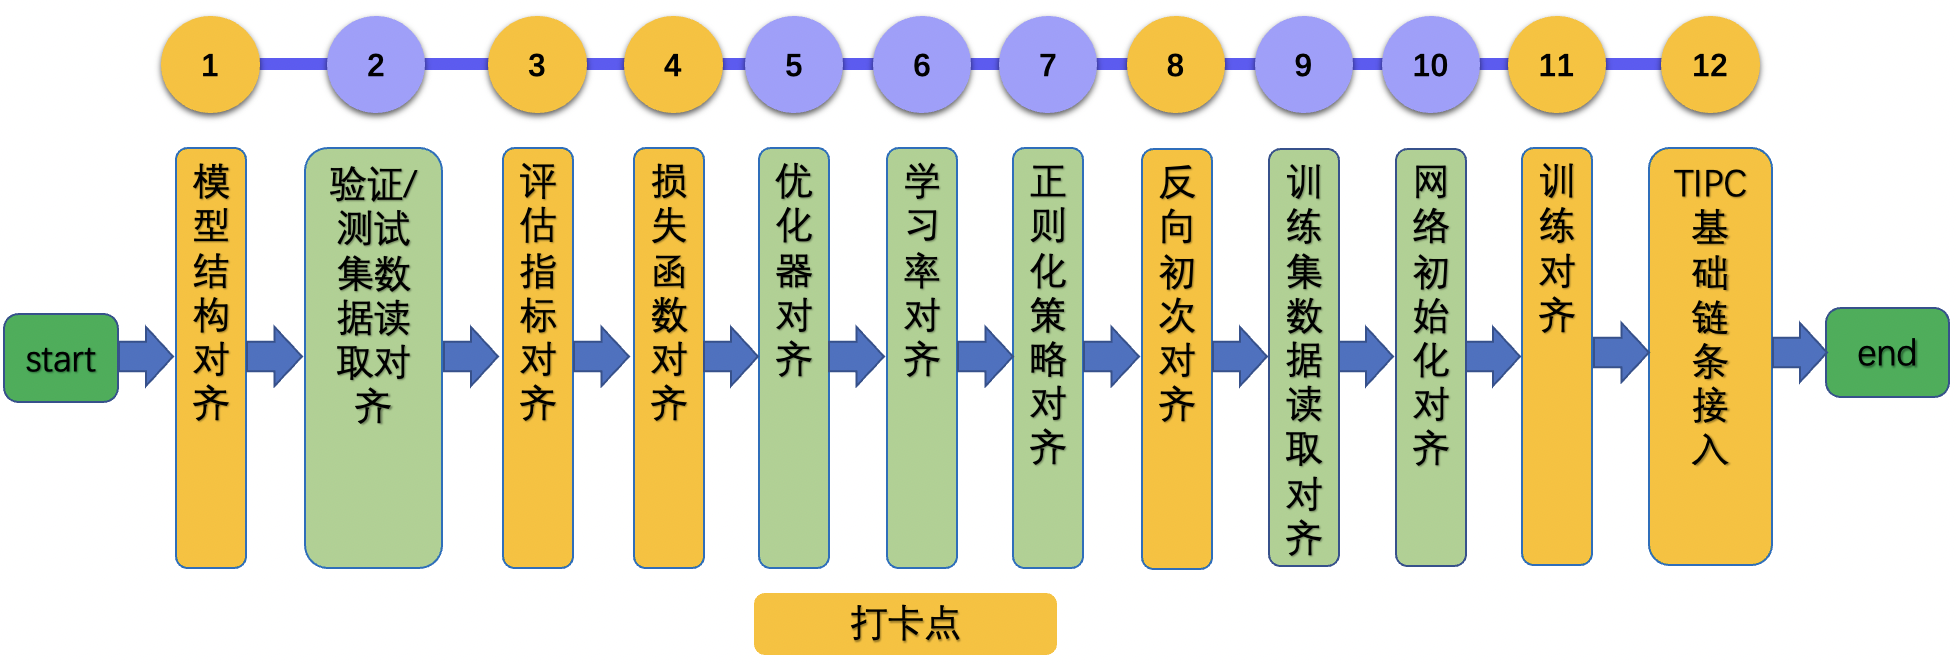
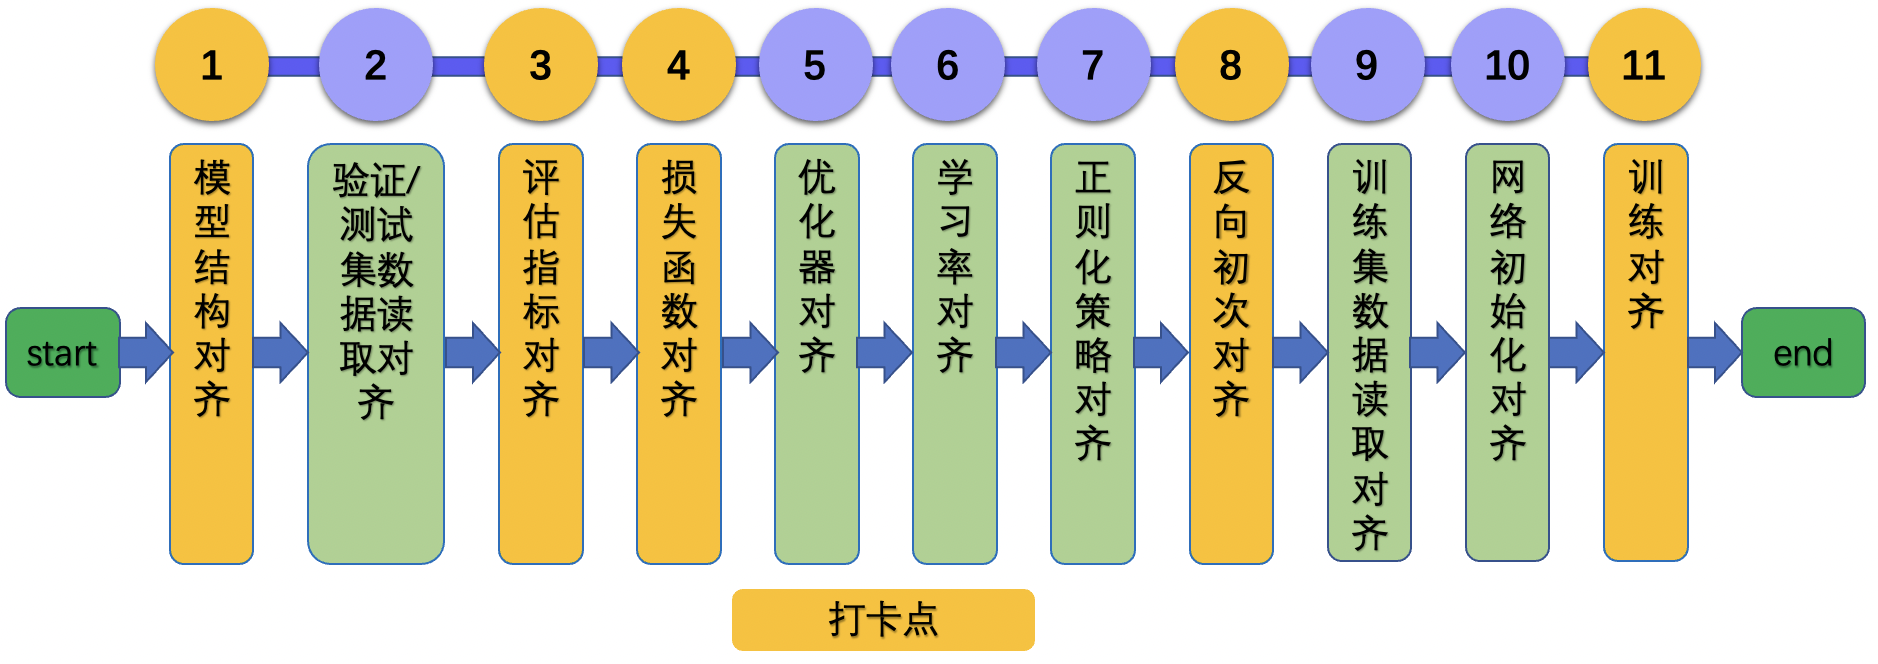
add tipc explain

diff --git a/docs/lwfx/ArticleReproduction_CV.md b/docs/lwfx/ArticleReproduction_CV.md
@@ -1,10 +1,10 @@
-# 论文复现赛指南-CV方向
+# 论文复现指南-CV方向
 
-> 本文为针对 `CV` 方向的复现赛指南
+> 本文为针对 `CV` 方向的复现指南
 >
-> 如果希望查阅 `NLP` 方向的复现赛指南，可以参考：[NLP方向论文复现赛指南](./ArticleReproduction_NLP.md)
+> 如果希望查阅 `NLP` 方向的复现指南，可以参考：[NLP方向论文复现指南](./ArticleReproduction_NLP.md)
 >
-> 如果希望查阅 `推荐` 方向的复现赛指南，可以参考：[推荐方向论文复现赛指南](./ArticleReproduction_REC.md)
+> 如果希望查阅 `推荐` 方向的复现指南，可以参考：[推荐方向论文复现指南](./ArticleReproduction_REC.md)
 
 ## 目录
 
@@ -28,7 +28,6 @@
     - [3.10 网络初始化对齐](#3.10)
     - [3.11 模型训练对齐](#3.11)
     - [3.12 单机多卡训练](#3.12)
-    - [3.13 TIPC基础链条测试接入](#3.13)
 - [4. 论文复现注意事项与FAQ](#4)
     - [4.1 通用注意事项](#4.0)
     - [4.2 模型结构对齐](#4.1)
@@ -42,8 +41,7 @@
     - [4.10 训练集数据读取对齐](#4.9)
     - [4.11 网络初始化对齐](#4.10)
     - [4.12 模型训练对齐](#4.11)
-    - [4.13 TIPC基础链条测试接入](#4.13)
-    - [4.14 常见bug汇总](#4.14)
+    - [4.13 常见bug汇总](#4.13)
 
 <a name="1"></a>
 ## 1. 总览
@@ -70,7 +68,6 @@
 * 在特定设备(CPU/GPU)上，跑通参考代码的预测过程(前向)以及至少2轮(iteration)迭代过程，保证后续基于PaddlePaddle复现论文过程中可对比。
 * 本文档基于 `AlexNet-Prod` 代码以及`reprod_log` whl包进行说明与测试。如果希望体验，建议参考[AlexNet-Reprod文档](https://github.com/littletomatodonkey/AlexNet-Prod/blob/master/README.md)进行安装与测试。
 * 在复现的过程中，只需要将PaddlePaddle的复现代码以及打卡日志上传至github，不能在其中添加`参考代码的实现`，在验收通过之后，需要删除打卡日志。建议在初期复现的时候，就将**复现代码与参考代码分成2个文件夹进行管理**。
-* 飞桨训推一体认证 (Training and Inference Pipeline Certification, TIPC) 是一个针对飞桨模型的测试工具，方便用户查阅每种模型的训练推理部署打通情况，并可以进行一键测试。论文训练对齐之后，需要为代码接入TIPC基础链条测试文档与代码，关于TIPC基础链条测试接入规范的文档可以参考：[链接](https://github.com/PaddlePaddle/models/blob/tipc/docs/tipc_test/development_specification_docs/train_infer_python.md)。更多内容在`3.13`章节部分也会详细说明。
 
 
 <a name="2"></a>
@@ -85,9 +82,9 @@
 <img src="images/framework_reprodcv.png"  width = "800" />
 </div>
 
-总共包含12个步骤。为了高效复现论文，设置了6个验收节点。如上图中黄色框所示。后续章节会详细介绍上述步骤和验收节点，具体内容安排如下：
+总共包含11个步骤。为了高效复现论文，设置了5个验收节点。如上图中黄色框所示。后续章节会详细介绍上述步骤和验收节点，具体内容安排如下：
 
-* 第3章：介绍12个复现步骤的理论知识、实战以及验收流程。
+* 第3章：介绍11个复现步骤的理论知识、实战以及验收流程。
 * 第4章：针对复现流程过程中每个步骤可能出现的问题，本章会进行详细介绍。如果还是不能解决问题，可以提ISSUE进行讨论，提ISSUE地址：[https://github.com/PaddlePaddle/Paddle/issues/new/choose](https://github.com/PaddlePaddle/Paddle/issues/new/choose)
 
 <a name="2.2"></a>
@@ -160,9 +157,6 @@ log_reprod
 上述文件的生成代码都需要开发者进行开发，验收时需要提供上面罗列的所有文件（不需要提供产生这些文件的可运行程序）以及完整的模型训练评估程序和日志。
 
 AlexNet-Prod项目提供了基于reprod_log的前5个验收点对齐验收示例，参考代码地址为：[https://github.com/littletomatodonkey/AlexNet-Prod/blob/master/pipeline/](https://github.com/littletomatodonkey/AlexNet-Prod/blob/master/pipeline/)，每个文件夹中的README.md文档提供了使用说明。
-
-InsightFace项目中提供了`TIPC基础链条验收点`的验收示例，参考代码地址为：[https://github.com/deepinsight/insightface/blob/master/recognition/arcface_paddle/test_tipc/readme.md](https://github.com/deepinsight/insightface/blob/master/recognition/arcface_paddle/test_tipc/readme.md)，更多关于TIPC基础链条测试接入规范的代码可以参考：[https://github.com/PaddlePaddle/models/blob/tipc/docs/tipc_test/development_specification_docs/train_infer_python.md](https://github.com/PaddlePaddle/models/blob/tipc/docs/tipc_test/development_specification_docs/train_infer_python.md)
-
 
 
 <a name="3"></a>
@@ -431,7 +425,6 @@ L2正则化策略用于模型训练，可以防止模型对训练数据过拟合
 **【注意事项】**
 
 * PaddlePaddle的optimizer中支持L1Decay/L2Decay。
-* PyTorch的optimizer支持不同参数列表的学习率分别设置，params传入字典即可，而PaddlePaddle目前尚未支持这种行为，可以通过设置`ParamAttr`的`learning_rate`参数，来确定相对学习率倍数，使用链接可以参考：[PaddleClas-ResNet model](https://github.com/PaddlePaddle/PaddleClas/blob/d67a352fcacc49ae6bbc7d1c7158e2c65f8e06d9/ppcls/arch/backbone/legendary_models/resnet.py#L121)。
 
 **【实战】**
 
@@ -677,34 +670,6 @@ python3.7 -m paddle.distributed.launch \
 
 本部分可以参考文档：[单机多卡训练脚本](https://github.com/littletomatodonkey/AlexNet-Prod/blob/master/pipeline/Step5/AlexNet_paddle/train_dist.sh)。
 
-
-<a name="3.13"></a>
-
-### 3.13 TIPC基础链条测试接入
-
-**【基本流程】**
-
-* 完成模型的训练、导出inference、基于PaddleInference的推理过程的文档与代码。参考链接：
-    * [insightface训练预测使用文档](https://github.com/deepinsight/insightface/blob/master/recognition/arcface_paddle/README_cn.md)
-    * [PaddleInference使用文档](https://www.paddlepaddle.org.cn/documentation/docs/zh/guides/05_inference_deployment/inference/inference_cn.html)
-* 基于[TIPC基础链条测试接入规范](https://github.com/PaddlePaddle/models/blob/tipc/docs/tipc_test/development_specification_docs/train_infer_python.md)，完成该模型的TIPC基础链条开发以及测试文档/脚本，目录为`test_tipc`，测试脚本名称为`test_train_inference_python.sh`，该任务中只需要完成`少量数据训练模型，少量数据预测`的模式即可，用于测试TIPC流程的模型和少量数据需要放在当前repo中。
-
-
-
-**【注意事项】**
-
-* 基础链条测试接入时，只需要验证`少量数据训练模型，少量数据预测`的模式，只需要在Linux下验证通过即可。
-* 在文档中需要给出一键测试的脚本与使用说明。
-
-**【实战】**
-
-TIPC基础链条测试接入用例可以参考：[InsightFace-paddle TIPC基础链条测试开发文档](https://github.com/deepinsight/insightface/blob/master/recognition/arcface_paddle/test_tipc/readme.md)。
-
-
-**【验收】**
-
-* TIPC基础链条测试文档清晰，`test_train_inference_python.sh`脚本可以成功执行并返回正确结果。
-
 <a name="4"></a>
 
 ## 4. 论文复现注意事项与FAQ
@@ -912,19 +877,11 @@ w.backward()
 
 <a name="4.13"></a>
 
-### 4.13 TIPC基础链条测试接入
-
-* 在接入时，建议将少量用于测试的数据打包(`tar -zcf lite_data.tar data/`)，放在data目录下，后续在进行环境准备的时候，直接解压该压缩包即可。
-* 接入过程中，需要依赖于inference模型，因此建议首先提供模型导出和基于inference模型的预测脚本，之后再接入TIPC测试代码与文档。
-* 接入过程中，如果需要在AiStudio中进行TensorRT预测，可以参考：[AiStudio中使用TensorRT进行预测教程](https://aistudio.baidu.com/aistudio/projectdetail/3027768)。
-
-<a name="4.14"></a>
-
-### 4.14 常见bug汇总
+### 4.13 常见bug汇总
 
 在论文复现中，可能因为各种原因出现报错，下面我们列举了常见的问题和解决方法，从而提供debug的方向：
 
-#### 4.14.1 显存泄露
+#### 4.13.1 显存泄露
 显存泄露会在 `nvidia-smi` 等命令下，明显地观察到显存的增加，最后会因为 `out of memory` 的错误而程序终止。
 
 * 可能原因：
@@ -941,10 +898,10 @@ w.backward()
    c[b] = 0
    # 修改后
    paddle.where(b, paddle.zeros(c.shape), c)
-   
+
    ```
 
-#### 4.14.2 内存泄露
+#### 4.13.2 内存泄露
 
 内存泄露和显存泄露相似，并不能立即察觉，而是在使用 `top` 命令时，观察到内存显著增加，最后会因为 `can't allocate memory` 的错误而程序终止，如图所示是 `top` 命令下观察内存变化需要检查的字段。
 
@@ -964,7 +921,7 @@ w.backward()
    cross_entropy_loss = paddle.nn.CrossEntropyLoss()
    loss = cross_entropy_loss(pred, gt)
    # 会导致内存泄露的操作
-   loss_total += loss 
+   loss_total += loss
    # 修改后
    loss_total += loss.numpy() # 如果可以转化为numpy
    loss_total += loss.detach().clone() # 如果需要持续使用tensor
@@ -976,10 +933,10 @@ w.backward()
   2. 考虑这些操作是否应当加入计算图中（即对最后损失产生影响）；
   3. 如果不需要，则需要对操作中的参数或中间计算结果进行`.detach().clone()`或者`.numpy` 后操作。
 
-#### 4.14.3 dataloader 加载数据时间长
+#### 4.13.3 dataloader 加载数据时间长
 
 - **解决方式**：增大 num_worker 的值，提升io速度，一般建议设置 4 或者 8。
 
 
-#### 4.14.4 单机多卡报错信息不明确
+#### 4.13.4 单机多卡报错信息不明确
 - **解决方式**：前往 log 下寻找 worklog.x 进行查看，其中 worklog.x 代表第 x 卡的报错信息。

diff --git a/docs/lwfx/ArticleReproductionComp.md b/docs/lwfx/ArticleReproductionComp.md
@@ -1,0 +1,68 @@
+# 论文复现赛指南
+
+- [1. 背景](#1)
+- [2. 复现赛过程](#2)
+    - [2.1 论文复现](#2.1)
+    - [2.2 TIPC基础链条](#2.2)
+
+<a name="1"></a>
+
+## 1. 背景
+
+以深度学习为核心的人工智能技术仍在高速发展，通过论文复现，开发者可以获得
+
+1. 学习成长：自我能力提升
+2. 技术积累：对科研或工作有所帮助和启发
+3. 社区荣誉：成果被开发者广泛使用
+
+飞桨训推一体全流程（TIPC) 是一个针对飞桨模型的测试工具，方便用户查阅每种模型的训练推理部署打通情况，并可以进行一键测试。论文训练对齐之后，需要为代码接入`TIPC基础链条测试文档与代码`，关于TIPC基础链条测试接入规范的文档可以参考`2.2节`相关内容。
+
+基于上述背景，百度举办了飞桨论文复现赛（第五期）。在论文复现赛中，需要完成2个任务。
+
+1. 论文复现
+2. 训推一体全流程（下面简称TIPC）中的基础链条部分
+
+<a name="2"></a>
+
+## 2. 复现赛过程
+
+<a name="2.1"></a>
+
+### 2.1 论文复现
+
+如果您对于论文复现过程已经非常熟悉，在复现过程中可以按照自己的复现方法进行复现。
+
+如果您在论文复现方面经验较少或者遇到一些问题，强烈建议您按照论文复现指南进行操作。以CV任务为例，复现指南将论文复现分为11个步骤，如下所示。
+
+<div align="center">
+<img src="images/framework_reprodcv.png"  width = "800" />
+</div>
+
+更加具体地：
+
+* 如果希望查阅 `CV` 方向的复现指南，可以参考：[NLP方向论文复现赛指南](./ArticleReproduction_CV.md)
+* 如果希望查阅 `NLP` 方向的复现指南，可以参考：[NLP方向论文复现赛指南](./ArticleReproduction_NLP.md)
+* 如果希望查阅 `推荐` 方向的复现指南，可以参考：[推荐方向论文复现赛指南](./ArticleReproduction_REC.md)
+
+
+<a name="2.2"></a>
+
+### 2.2 TIPC基础链条
+
+
+TIPC基础链条添加包含7个步骤，如下所示。
+
+<div align="center">
+<img src="images/framework_tipc_base.png"  width = "400" />
+</div>
+
+更加具体地：
+
+- 主要内容可以参考[TIPC基础链条添加指南(coming soon)]()。
+- 示例代码可以参考：[AlexNet添加TIPC基础链条(coming soon)]()。
+
+**注意：**
+
+* 接入过程中，需要依赖于inference模型，因此建议首先提供模型导出和基于inference模型的预测脚本，之后再接入TIPC测试代码与文档。
+* 接入过程中，只需要完成`少量数据训练模型，少量数据预测`(`lite_train_lite_infer`)的模式即可，用于测试TIPC流程的少量数据需要放在当前repo中。建议将少量用于测试的数据打包(`tar -zcf lite_data.tar data/`)，放在data目录下，后续在进行环境准备的时候，直接解压该压缩包即可。
+* 接入过程中，如果需要在AiStudio中进行TensorRT预测，可以参考：[AiStudio中使用TensorRT进行预测教程](https://aistudio.baidu.com/aistudio/projectdetail/3027768)。

diff --git a/docs/lwfx/ArticleReproduction_NLP.md b/docs/lwfx/ArticleReproduction_NLP.md
@@ -1,10 +1,10 @@
-# 论文复现赛指南-NLP方向
+# 论文复现指南-NLP方向
 
-> 本文为针对 `NLP` 方向的复现赛指南
+> 本文为针对 `NLP` 方向的复现指南
 >
-> 如果希望查阅 `CV` 方向的复现赛指南，可以参考：[CV方向论文复现赛指南](./ArticleReproduction_CV.md)
-> 
-> 如果希望查阅 `推荐` 方向的复现赛指南，可以参考：[推荐方向论文复现赛指南](./ArticleReproduction_REC.md)
+> 如果希望查阅 `CV` 方向的复现指南，可以参考：[CV方向论文复现指南](./ArticleReproduction_CV.md)
+>
+> 如果希望查阅 `推荐` 方向的复现指南，可以参考：[推荐方向论文复现指南](./ArticleReproduction_REC.md)
 
 ## 目录
 
